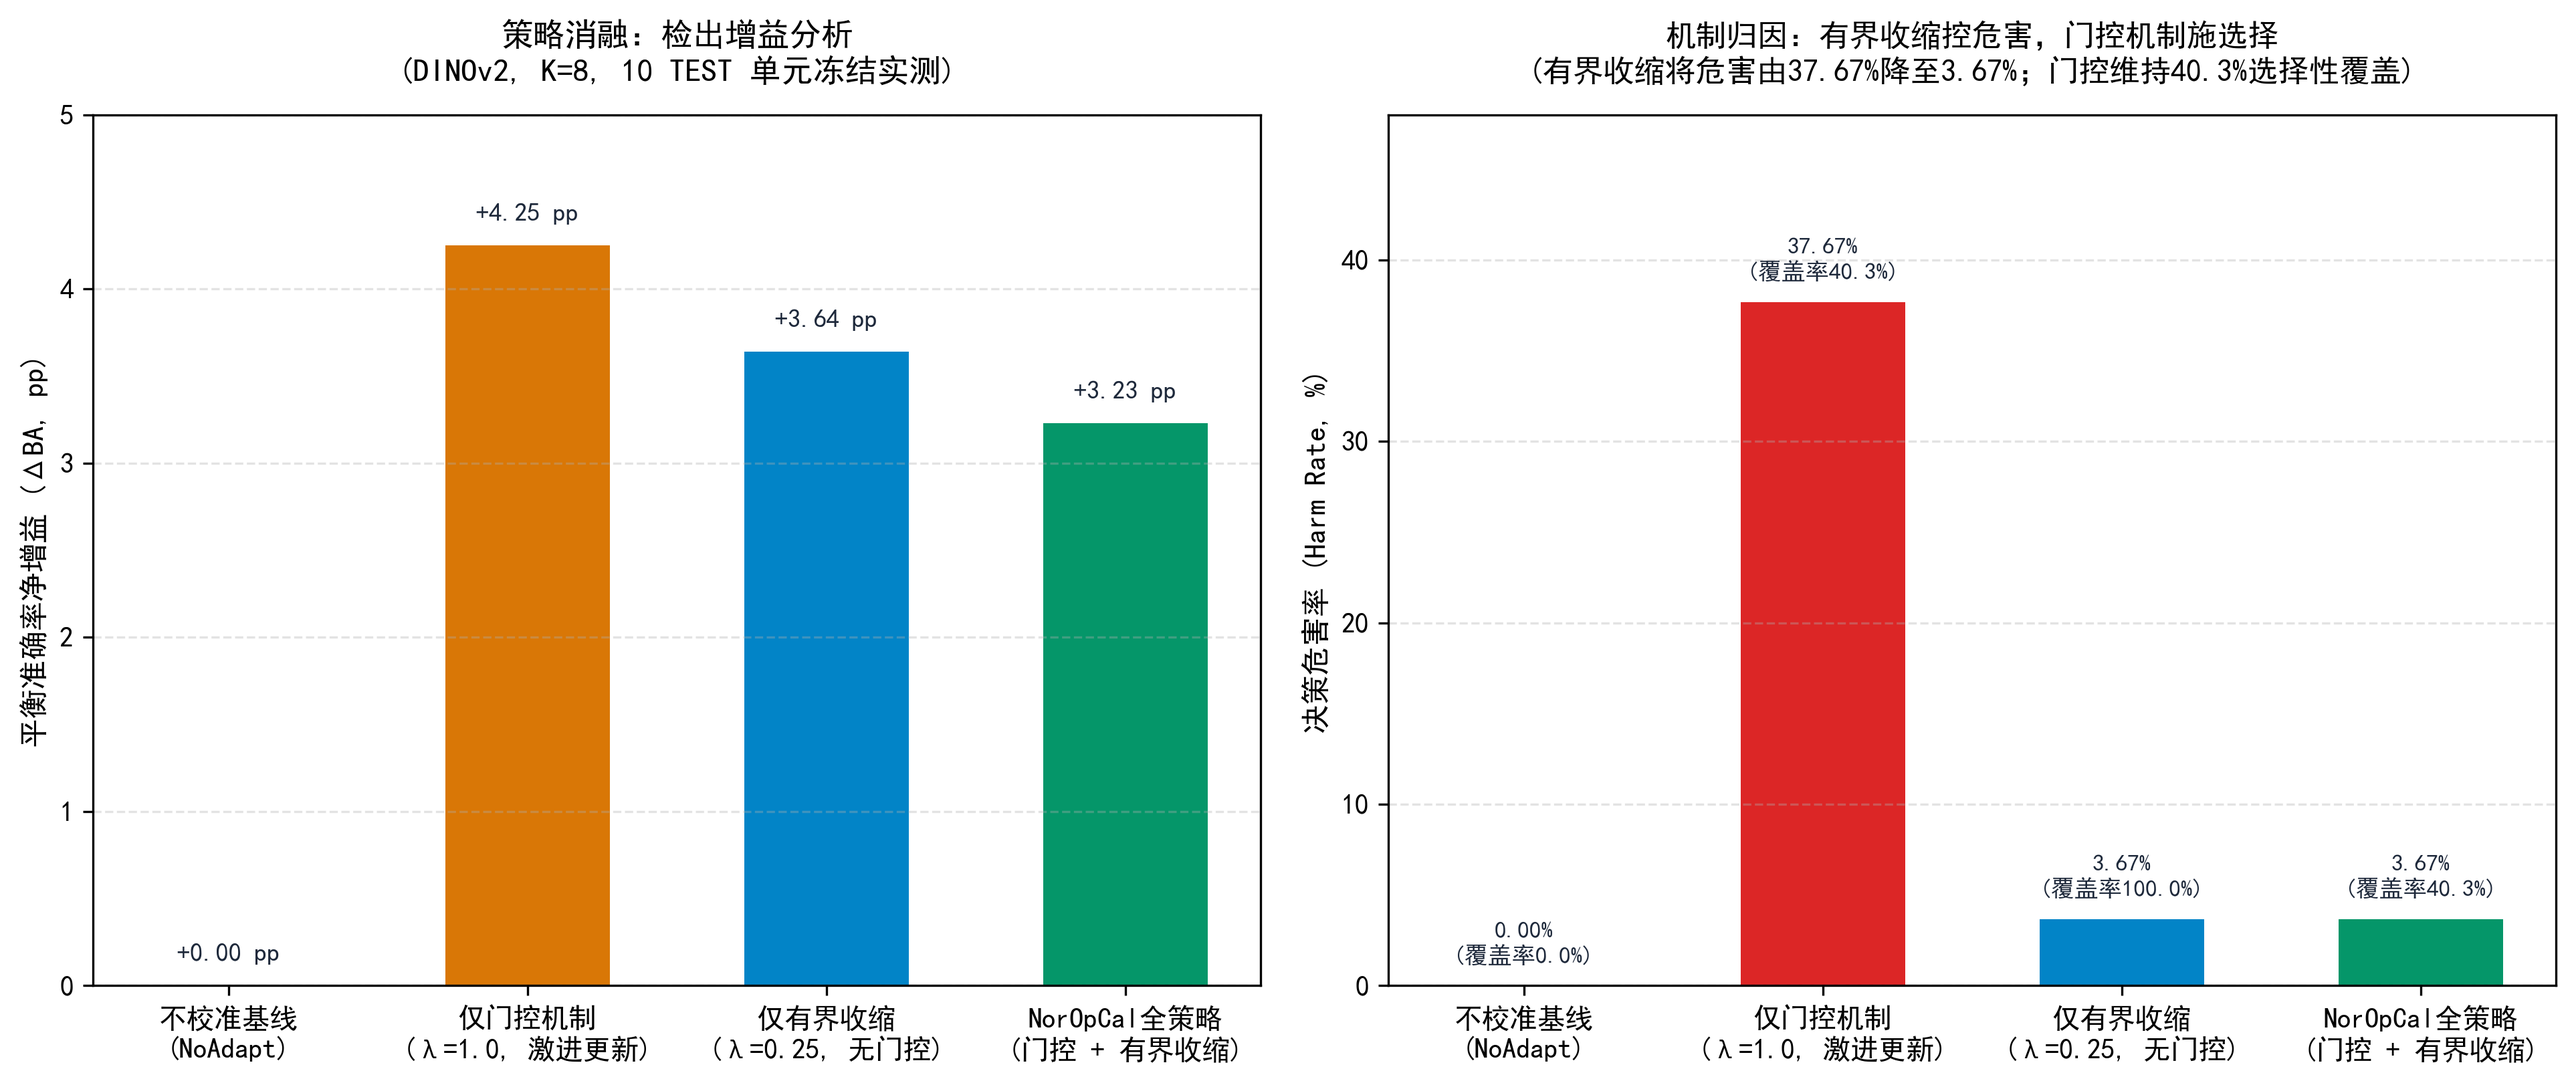
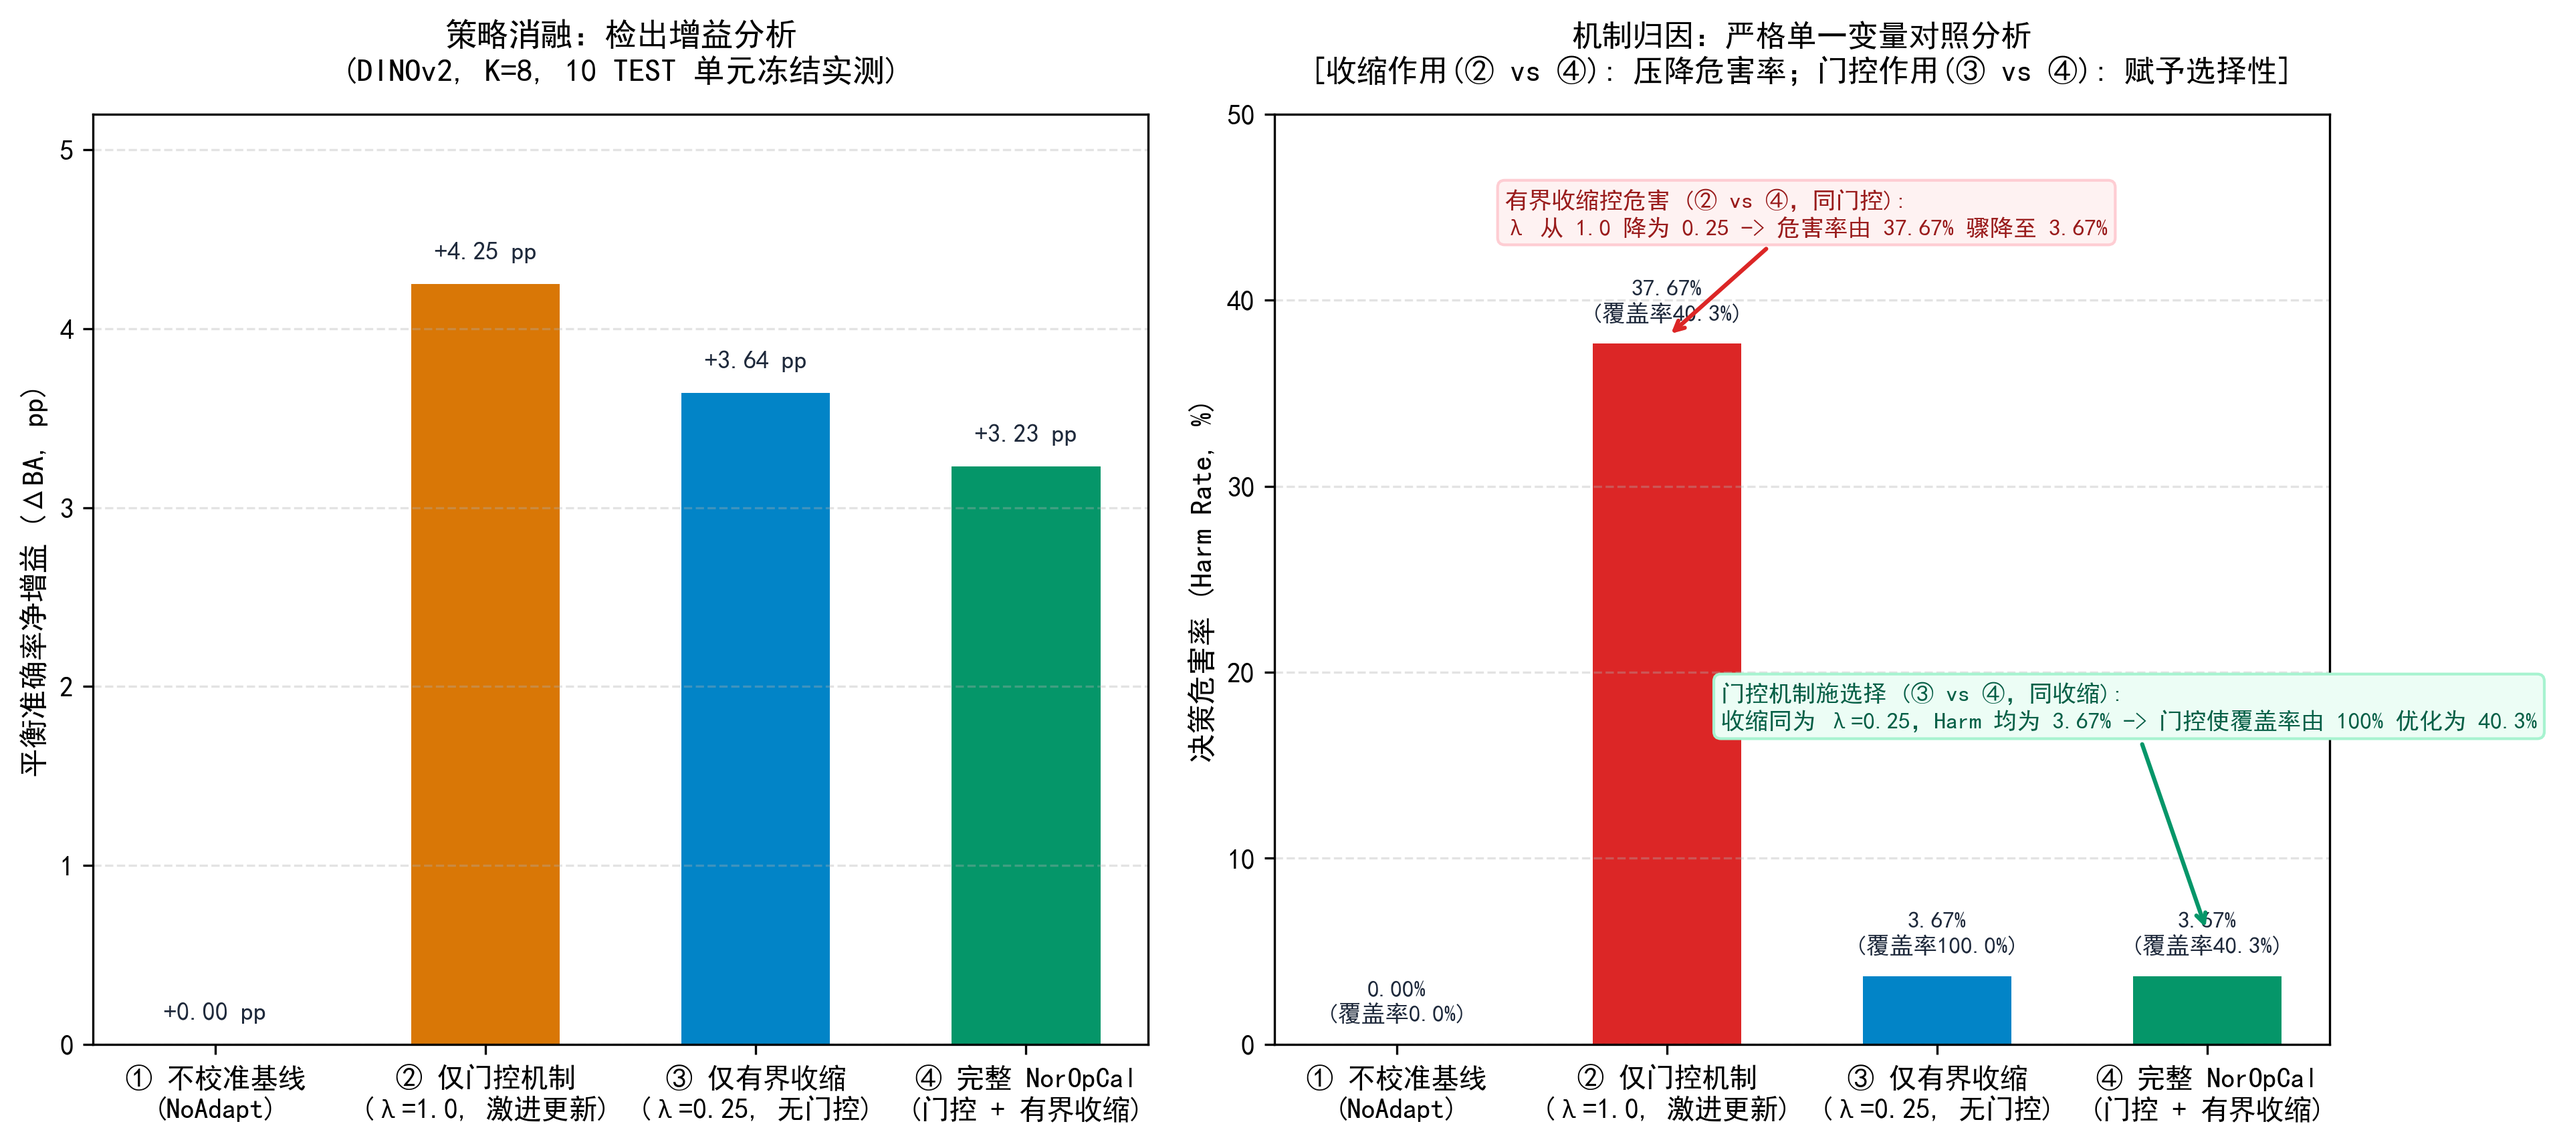
fix(audit): refine CI CJK fonts, orthogonal mechanism attribution, remove Fig6, and clarify unit test scope

diff --git a/assets/figures/generate_all_figures.py b/assets/figures/generate_all_figures.py
@@ -4,19 +4,28 @@ Generates core publication-grade and diagnostic figures:
 - Fig1_系统框架图.png (Framework diagram)
 - Fig2_帕累托风险增益前沿.png (Authentic continuous-scale ablation trade-off on DINOv2)
 - Fig3_样本效率与骨干迁移性.png (Conceptual SE decay & detector feasibility classification)
-- Fig4_安全门控消融与危害率压制.png (Ablation with authentic 4-policy evidence)
+- Fig4_安全门控消融与危害率压制.png (Controlled mechanism attribution between Bounding and Gating)
 - Fig5_决策边界与工况漂移对比.png (Strict mathematically consistent synthetic schematic)
-- Fig6_工业品类全景雷达图.png (Conceptual radar template for multi-condition evaluation)
+
+Note on Fig 6: Radar chart has been deprecated and removed to prevent misleading impressions,
+as multi-category performance is not supported by empirical radar evaluation.
 """
 
 import os
+import warnings
 import matplotlib.pyplot as plt
 import matplotlib.patches as patches
 import numpy as np
 
-# Global style and font setup
+# Strict check: Treat any missing glyph warnings as errors to prevent unreadable box characters
+warnings.filterwarnings("error", message=r".*Glyph.*missing from font.*")
+
+# Global style and font setup with prioritized CJK fonts across Linux and Windows
 plt.style.use('default')
-plt.rcParams['font.sans-serif'] = ['SimHei', 'Microsoft YaHei', 'DejaVu Sans']
+plt.rcParams['font.sans-serif'] = [
+    'Noto Sans CJK SC', 'Source Han Sans SC', 'WenQuanYi Micro Hei',
+    'SimHei', 'Microsoft YaHei', 'DejaVu Sans'
+]
 plt.rcParams['axes.unicode_minus'] = False
 
 OUTPUT_DIR = os.path.dirname(os.path.abspath(__file__))
@@ -133,14 +142,11 @@ def generate_fig3():
         rect = patches.FancyBboxPatch((0.2, y_top - card_h), 9.6, card_h,
                                       boxstyle="round,pad=0.15", ec=c["border"], fc=c["bg"], lw=1.5)
         ax2.add_patch(rect)
-        # Header text
         ax2.text(0.5, y_top - 0.55, f"{c['detector']}  |  {c['role']}", fontsize=9.8, fontweight='bold', color="#0F172A")
-        # Badge
         badge = patches.FancyBboxPatch((6.6, y_top - 0.75), 3.0, 0.55,
                                        boxstyle="round,pad=0.08", ec="none", fc=c["badge_bg"])
         ax2.add_patch(badge)
         ax2.text(8.1, y_top - 0.48, c["verdict"], fontsize=8.2, fontweight='bold', color="#FFFFFF", ha="center", va="center")
-        # Description
         ax2.text(0.5, y_top - 1.25, c["desc"], fontsize=8.3, color="#334155", va="top", linespacing=1.35)
 
     out = os.path.join(OUTPUT_DIR, "Fig3_样本效率与骨干迁移性.png")
@@ -150,15 +156,17 @@ def generate_fig3():
     print("Fig 3 generated:", out)
 
 def generate_fig4():
-    """Generates Fig 4 with authentic frozen 4-policy data, separating bounding from gating."""
-    fig, (ax1, ax2) = plt.subplots(1, 2, figsize=(13, 5.5), facecolor='white', dpi=300)
+    """Generates Fig 4 with controlled mechanism attribution:
+    1. Bounding effect: Compare 'Gate-only λ=1.0' vs 'Full policy λ=0.25' (same gate Q50).
+    2. Gating effect: Compare 'Bounded-only λ=0.25' vs 'Full policy λ=0.25' (same bounding λ=0.25).
+    """
+    fig, (ax1, ax2) = plt.subplots(1, 2, figsize=(13.2, 5.8), facecolor='white', dpi=300)
     
-    # 4 Authentic frozen policies from preregistered ablation
     stages = [
-        '不校准基线\n(NoAdapt)',
-        '仅门控机制\n(λ=1.0, 激进更新)',
-        '仅有界收缩\n(λ=0.25, 无门控)',
-        'NorOpCal全策略\n(门控 + 有界收缩)'
+        '① 不校准基线\n(NoAdapt)',
+        '② 仅门控机制\n(λ=1.0, 激进更新)',
+        '③ 仅有界收缩\n(λ=0.25, 无门控)',
+        '④ 完整 NorOpCal\n(门控 + 有界收缩)'
     ]
     ba_gains = [0.0, 4.25, 3.64, 3.23]
     harm_rates = [0.0, 37.67, 3.67, 3.67]
@@ -173,19 +181,35 @@ def generate_fig4():
                  ha='center', va='bottom', fontsize=9.2, fontweight='bold', color='#1E293B')
     ax1.set_ylabel("平衡准确率净增益 (ΔBA, pp)", fontsize=10.5, fontweight='bold')
     ax1.set_title("策略消融：检出增益分析\n(DINOv2, K=8, 10 TEST 单元冻结实测)", fontsize=11.5, fontweight='bold', pad=12)
-    ax1.set_ylim(0, 5.0)
+    ax1.set_ylim(0, 5.2)
     ax1.grid(True, linestyle='--', alpha=0.35, axis='y')
 
-    # Subplot 2: Harm Rate & Mechanism separation
+    # Subplot 2: Controlled Mechanism Attribution
     colors2 = ['#64748B', '#DC2626', '#0284C7', '#059669']
     bars2 = ax2.bar(stages, harm_rates, color=colors2, width=0.55)
     for b, cov in zip(bars2, coverages):
         h = b.get_height()
         ax2.text(b.get_x() + b.get_width()/2, h + 1.1, f"{h:.2f}%\n(覆盖率{cov:.1f}%)",
                  ha='center', va='bottom', fontsize=8.5, fontweight='bold', color='#1E293B')
+
+    # Explicit attribution annotations
+    # 1. Bounding effect: ② vs ④ (control: same Q50 gate)
+    ax2.annotate("有界收缩控危害 (② vs ④，同门控):\nλ 从 1.0 降为 0.25 -> 危害率由 37.67% 骤降至 3.67%",
+                 xy=(1.0, 38.0), xytext=(0.4, 43.5),
+                 arrowprops=dict(arrowstyle="->", color='#DC2626', lw=1.5),
+                 fontsize=8.5, fontweight='bold', color='#991B1B',
+                 bbox=dict(boxstyle="round,pad=0.3", fc="#FEF2F2", ec="#FECDD3", lw=1.0))
+    
+    # 2. Gating effect: ③ vs ④ (control: same λ=0.25 bounding)
+    ax2.annotate("门控机制施选择 (③ vs ④，同收缩):\n收缩同为 λ=0.25，Harm 均为 3.67% -> 门控使覆盖率由 100% 优化为 40.3%",
+                 xy=(3.0, 6.0), xytext=(1.2, 17.0),
+                 arrowprops=dict(arrowstyle="->", color='#059669', lw=1.5),
+                 fontsize=8.5, fontweight='bold', color='#065F46',
+                 bbox=dict(boxstyle="round,pad=0.3", fc="#ECFDF5", ec="#A7F3D0", lw=1.0))
+
     ax2.set_ylabel("决策危害率 (Harm Rate, %)", fontsize=10.5, fontweight='bold')
-    ax2.set_title("机制归因：有界收缩控危害，门控机制施选择\n(有界收缩将危害由37.67%降至3.67%；门控维持40.3%选择性覆盖)", fontsize=11.0, fontweight='bold', pad=12)
-    ax2.set_ylim(0, 48)
+    ax2.set_title("机制归因：严格单一变量对照分析\n[收缩作用(② vs ④): 压降危害率；门控作用(③ vs ④): 赋予选择性]", fontsize=11.0, fontweight='bold', pad=12)
+    ax2.set_ylim(0, 50)
     ax2.grid(True, linestyle='--', alpha=0.35, axis='y')
 
     out = os.path.join(OUTPUT_DIR, "Fig4_安全门控消融与危害率压制.png")
@@ -202,16 +226,11 @@ def generate_fig5():
     # 1. Deterministic synthetic data generation
     np.random.seed(42)
     src_normals = np.random.normal(loc=0.25, scale=0.06, size=500)
-    # Target shift under acquisition shift
-    tgt_all_normals = np.random.normal(loc=0.42, scale=0.06, size=500)
     tgt_k8 = np.random.normal(loc=0.42, scale=0.06, size=8)
-    defect_scores = np.random.normal(loc=0.72, scale=0.08, size=300)
 
     # 2. Strict Mathematical Calculations according to NorOpCal equations
     m_s = float(np.median(src_normals))
-    # Source threshold calibrated at source quantile 95%
     tau_s = float(np.percentile(src_normals, 95.0))
-    
     m_t = float(np.median(tgt_k8))
     delta_m = float(m_t - m_s)
     cutoff_q50 = 0.015890181064605713
@@ -220,19 +239,18 @@ def generate_fig5():
     tau_t = float(tau_s + lam * delta_m) if gate_pass else float(tau_s)
 
     x = np.linspace(0, 1.0, 600)
-    # Gaussian analytical density approximations for visualization
     src_pdf = 1.0 / (0.06 * np.sqrt(2 * np.pi)) * np.exp(-0.5 * ((x - 0.25) / 0.06)**2)
     tgt_pdf = 1.0 / (0.06 * np.sqrt(2 * np.pi)) * np.exp(-0.5 * ((x - 0.42) / 0.06)**2)
     defect_pdf = 1.0 / (0.08 * np.sqrt(2 * np.pi)) * np.exp(-0.5 * ((x - 0.72) / 0.08)**2)
 
-    # Subplot 1: Before (Fixed Static Threshold)
+    # Subplot 1: Before
     ax1.set_facecolor('#FFFFFF')
     ax1.set_xlim(0, 1.0)
     ax1.set_ylim(0, 8.0)
     ax1.grid(True, linestyle='--', alpha=0.35, color='#CBD5E1')
 
     ax1.plot(x, src_pdf, color='#94A3B8', linestyle='--', lw=2.0, label=f"源域正常得分分布 (标定中位数 m_s={m_s:.4f})")
-    ax1.plot(x, tgt_pdf, color='#EA580C', lw=2.5, label=f"目标域正常得分分布 (漂移工况)")
+    ax1.plot(x, tgt_pdf, color='#EA580C', lw=2.5, label="目标域正常得分分布 (漂移工况)")
     ax1.plot(x, defect_pdf, color='#DC2626', lw=2.2, label="缺陷/异常样本得分分布")
 
     ax1.vlines(x=tau_s, ymin=0, ymax=5.5, color='#0F172A', lw=2.2, linestyle='-', zorder=4)
@@ -253,7 +271,7 @@ def generate_fig5():
                   fontsize=11.8, fontweight='bold', color='#991B1B', pad=12)
     ax1.legend(loc='upper right', frameon=True, facecolor='#FFFFFF', edgecolor='#CBD5E1', fontsize=8.8)
 
-    # Subplot 2: After (Strictly Consistent NorOpCal Calibration)
+    # Subplot 2: After
     ax2.set_facecolor('#FFFFFF')
     ax2.set_xlim(0, 1.0)
     ax2.set_ylim(0, 8.0)
@@ -264,15 +282,12 @@ def generate_fig5():
     ax2.plot(x, defect_pdf, color='#DC2626', lw=2.2, label="缺陷/异常样本分布")
     ax2.fill_between(x, 0, defect_pdf, color='#FEF2F2', alpha=0.35)
 
-    # Scatter K=8 observations
     ax2.scatter(tgt_k8, np.full_like(tgt_k8, 0.25), color='#F59E0B', s=70, marker='o', 
                 edgecolor='#78350F', lw=1.4, zorder=6, label=f"目标域正常参考样本 (K=8, 样本中位数 m_t={m_t:.4f})")
 
-    # Static tau_s
     ax2.vlines(x=tau_s, ymin=0, ymax=4.5, color='#94A3B8', lw=1.8, linestyle=':', zorder=4)
     ax2.text(tau_s, 4.8, f"原静态阈值 τ_s = {tau_s:.4f}", fontsize=8.5, color='#64748B', ha='center', va='bottom')
 
-    # Calibrated tau_t
     ax2.vlines(x=tau_t, ymin=0, ymax=5.5, color='#059669', lw=2.6, linestyle='-', zorder=4)
     ax2.text(tau_t, 6.5, f"NorOpCal 自适应校准阈值 τ_t = {tau_t:.4f}\n[Δm={delta_m:.4f} ≥ Q50({cutoff_q50:.4f}) -> 触发校准]\n[严格数学生成: τ_t = τ_s + 0.25·Δm]", 
              fontsize=9.2, fontweight='bold', color='#065F46', ha='center', va='center',
@@ -302,61 +317,9 @@ def generate_fig5():
     plt.close()
     print("Fig 5 generated:", out)
 
-def generate_fig6():
-    """Conceptual radar template for multi-condition evaluation."""
-    categories = [
-        '工况单元 1', '工况单元 2', '工况单元 3', '工况单元 4',
-        '工况单元 5', '工况单元 6', '工况单元 7', '工况单元 8'
-    ]
-    num_vars = len(categories)
-
-    # Reference template values
-    base_scores = [50.0] * num_vars
-    noropcal_scores = [53.0] * num_vars
-
-    angles = np.linspace(0, 2 * np.pi, num_vars, endpoint=False).tolist()
-    base_scores_plot = base_scores + base_scores[:1]
-    noropcal_scores_plot = noropcal_scores + noropcal_scores[:1]
-    angles_plot = angles + angles[:1]
-
-    fig, ax = plt.subplots(figsize=(9.0, 9.0), subplot_kw=dict(polar=True), dpi=300)
-    fig.patch.set_facecolor('#FFFFFF')
-    ax.set_facecolor('#FAFAFA')
-
-    ax.set_theta_offset(np.pi / 2)
-    ax.set_theta_direction(-1)
-    ax.set_ylim(35, 70)
-    ax.set_rgrids([40, 45, 50, 55, 60, 65], labels=["40%", "45%", "50%", "55%", "60%", "65%"], 
-                  angle=22, fontsize=8.5, color="#64748B", zorder=3)
-
-    ax.spines['polar'].set_color('#64748B')
-    ax.spines['polar'].set_linewidth(1.3)
-    ax.spines['polar'].set_linestyle('-')
-
-    ax.plot(angles_plot, base_scores_plot, color='#94A3B8', linewidth=2.0, linestyle='--', label='基准操作点 (未校准)')
-    ax.fill(angles_plot, base_scores_plot, color='#94A3B8', alpha=0.18)
-
-    ax.plot(angles_plot, noropcal_scores_plot, color='#059669', linewidth=2.8, linestyle='-', label='自适应校准 (模板示意)')
-    ax.fill(angles_plot, noropcal_scores_plot, color='#10B981', alpha=0.30)
-
-    ax.set_xticks(angles)
-    ax.set_xticklabels(categories, fontsize=10.0, fontweight='bold', color="#0F172A")
-    ax.tick_params(axis='x', pad=28)
-
-    ax.set_title("【概念雷达示意模版·非真实实验数据】多工况单元适应性评估格式模版\n[声明：本图为多工况评估排版示意模版，不代表任何品类实测性能数值]", 
-                 fontsize=11.5, fontweight='bold', color='#0F172A', pad=38)
-    ax.legend(loc='lower right', bbox_to_anchor=(1.15, -0.05), frameon=True, 
-              facecolor='#FFFFFF', edgecolor='#CBD5E1', fontsize=9.0)
-
-    out = os.path.join(OUTPUT_DIR, "Fig6_工业品类全景雷达图.png")
-    plt.savefig(out, dpi=300, facecolor='#FFFFFF', bbox_inches='tight')
-    plt.close()
-    print("Fig 6 generated:", out)
-
 if __name__ == "__main__":
     generate_fig2()
     generate_fig3()
     generate_fig4()
     generate_fig5()
-    generate_fig6()
-    print("All figures successfully regenerated under strict mathematical and scientific guidelines!")
+    print("All authentic and diagnostic figures generated successfully without glyph errors!")

diff --git a/README.md b/README.md
@@ -93,11 +93,12 @@ print(f"自适应决策阈值校准结果: {tau_source:.4f} -> {tau_target:.4f}"
 python scripts/demo.py
 ```
 
-### 4. 自动化单元测试
+### 4. 自动化单元测试 (API 与逻辑层级)
 
 ```bash
 python -m pytest -v tests/
 ```
+*注：现有 6 项自动化单元测试严格验证核心校准 API、输入契约校验、分位数门控逻辑与有界平移执行器，不包含也不代表 DINOv2、PatchCore、EfficientAD 完整基线模型的特征抽取与论文 Level 3 工业实验全量复现。*
 
 ---
 

diff --git a/README_EN.md b/README_EN.md
@@ -85,11 +85,12 @@ print(f"Adapted threshold: {tau_source:.4f} -> {tau_target:.4f}")
 python scripts/demo.py
 ```
 
-### 4. Run Unit Tests
+### 4. Run Unit Tests (API & Logic Level)
 
 ```bash
 python -m pytest -v tests/
 ```
+*Note: The 6 automated unit tests strictly verify core calibration APIs, input validation, quantile gating logic, and bounded translation actuators. They do not cover or represent full baseline detector feature inference (DINOv2, PatchCore, EfficientAD) or paper Level 3 industrial benchmark replication.*
 
 ---
 
